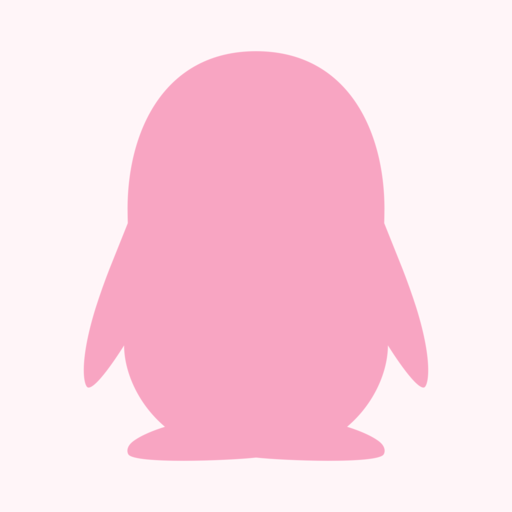
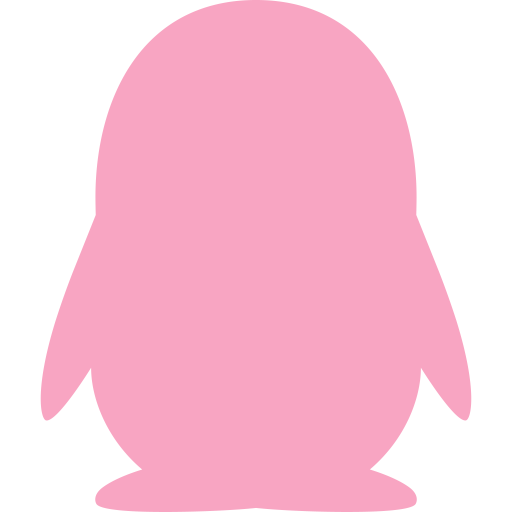
chore: 图标对齐 QQ增强1（同路径同比例，只换色）

Changed region(s): [[0.0625, 0.0, 0.9375, 1.0]]

diff --git a/README.md b/README.md
@@ -178,6 +178,12 @@
 - 不在 → 保留完整通知。
 检查只是读一个 list（不加锁、不 await），不会卡事件循环。
 
+### 🎨 图标与 QQ增强1 统一
+之前是 512×512 带浅粉背景、图形只占 346×410（留白偏大）。
+现在直接复用 QQ增强1 的 `icon.svg` 路径（官方 QQ logo，viewBox 24×24），
+只换填充色 `#1EBAFC → #F8A5C2`，透明背景、图形 432×512 满幅 ——
+和 QQ增强1 **逐像素同轮廓**（alpha 差异 0），就是换了个颜色。
+
 ### 🗑 移除：`fetch_emoji_like` 工具
 唤醒通知本身已带"谁贴的 + 表情 ID + 次数"，该工具只剩查历史名单的增量价值，
 性价比低。工具数 3 → 2（`qq_profile` / `qq_group_profile`）。
